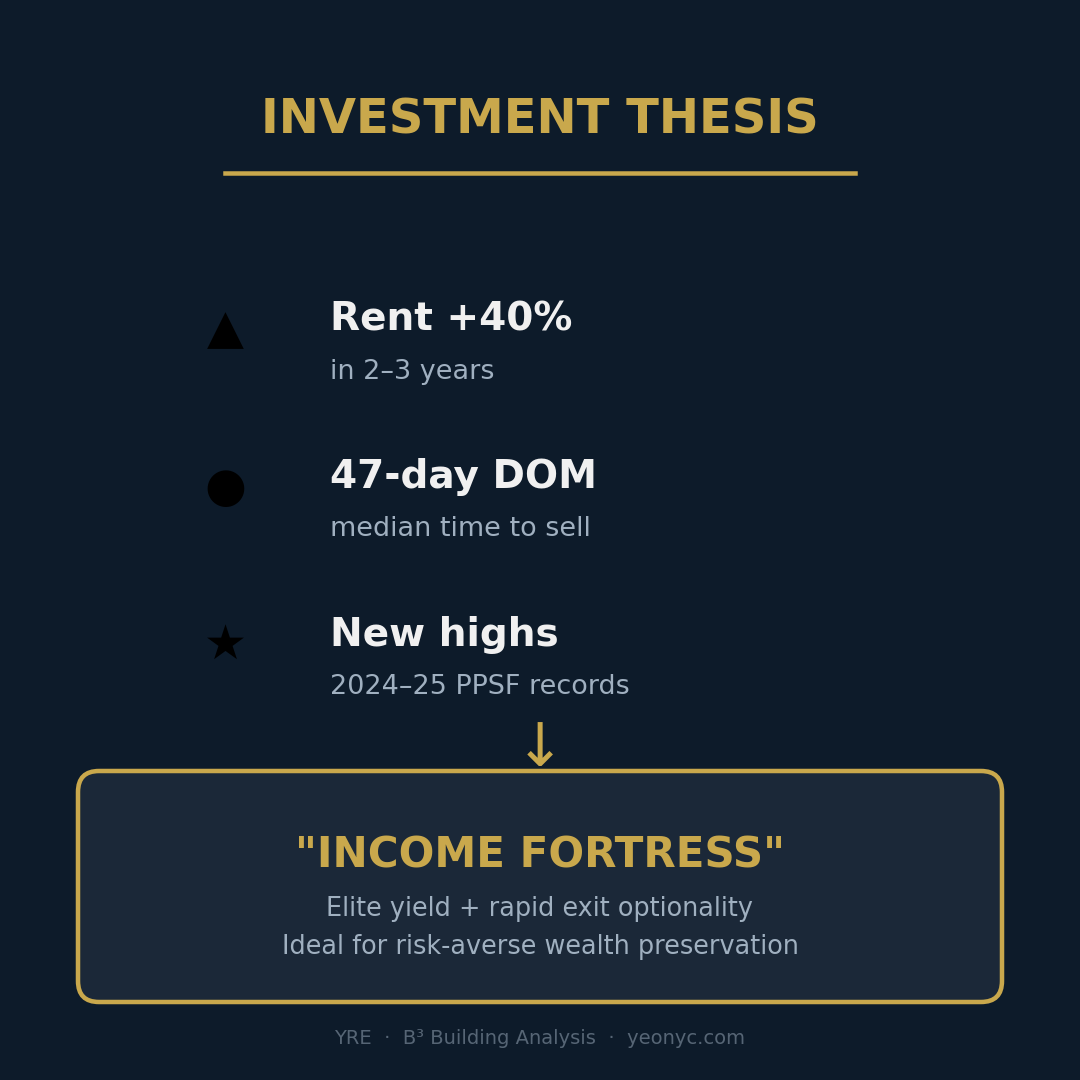
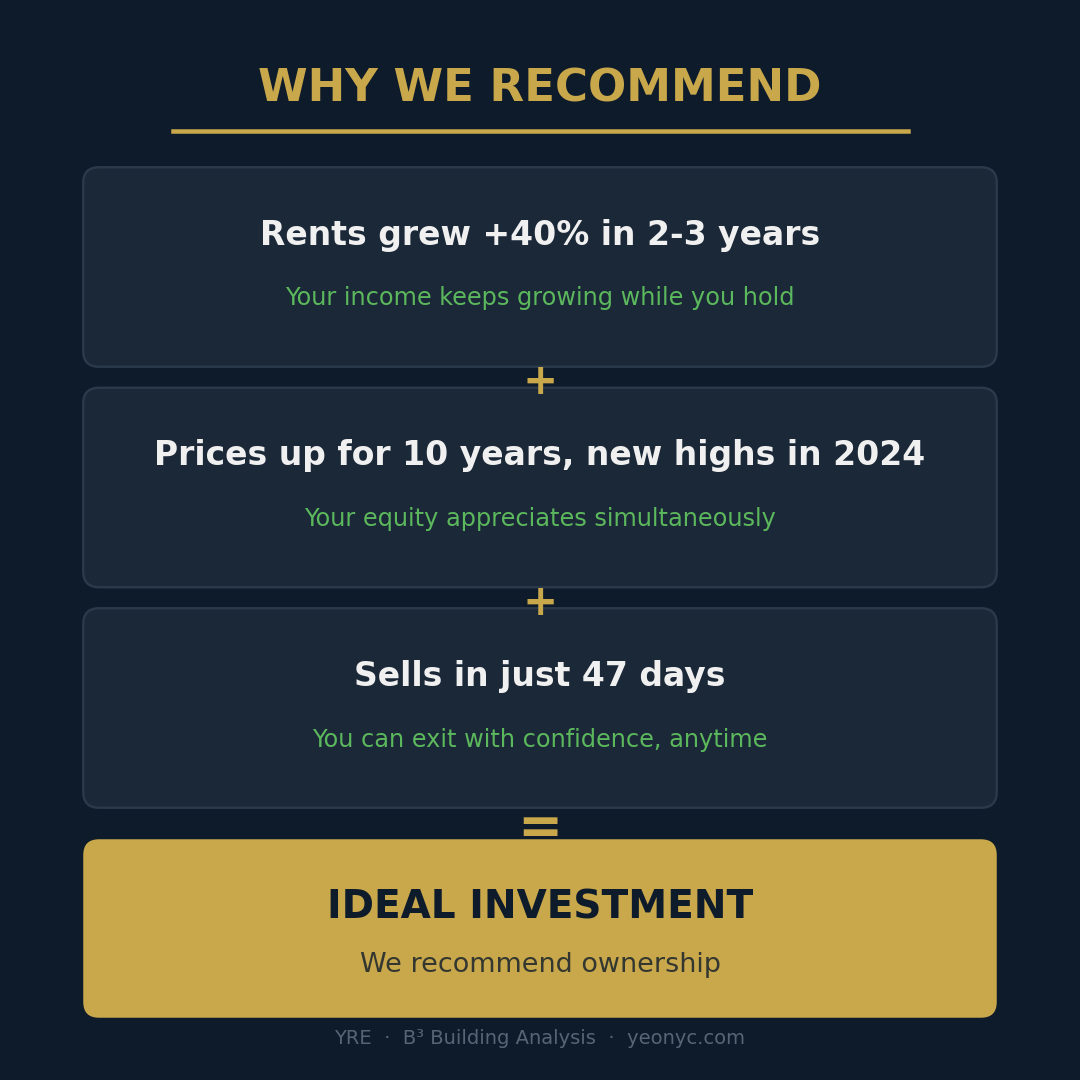
fix: rewrite thesis/synthesis as causal chains, not metric lists
- Thesis now explicitly connects: rent growth + price appreciation + fast DOM = recommend ownership
- Executive summary rebuilt with First/Second/Third → Therefore structure
- Rent capture section adds 'three-way convergence' paragraph
- Instagram slide 3 shows causal chain instead of bullet list
- SKILL.md Cross-Metric Synthesis rewritten to enforce causal arguments over '+' formulas
- Critical Reminders updated: never list metrics, always write causal chains

diff --git a/docs/index.html b/docs/index.html
@@ -37,7 +37,7 @@
 <p class="meta">B³ Building Analysis &bull; West Village, Manhattan &bull; Generated April 2026</p>
 
 <div class="thesis">
-45 Christopher Street is a <strong>Core / Defensive</strong> pre-war asset that excels at wealth preservation and income generation. Post-sponsor behavior confirms it is highly liquid (<strong>47-day median DOM</strong>) with elite rent capture capabilities (<strong>$100–$123/SF</strong>), making it a fortress investment in the West Village. While appreciation is steady rather than explosive—with the E-line compounding at <strong>4.8% CAGR</strong> while the B-line trails at <strong>1.5% CAGR</strong>—the building has successfully recovered from the 2020 correction to set new pricing records in 2024/2025. It is an ideal asset for <strong>risk-averse investors</strong> prioritizing liquidity and yield over speculative growth.
+Rents at 45 Christopher Street have grown <strong>37–40% in just 2–3 years</strong>. At the same time, sale prices have been steadily appreciating over the past decade, with the E-line compounding at <strong>4.8% CAGR</strong> and the building setting new PPSF records in 2024–2025. On top of all that, units sell in a median of just <strong>47 days</strong>. When all three of these happen simultaneously in a single building — growing rental income, appreciating asset value, and the ability to exit quickly — it creates something rare: an investment where you <strong>earn expanding yield</strong> while you hold, your <strong>asset grows in value</strong>, and you can <strong>exit with confidence at any time</strong>. This is why 45 Christopher Street is classified as <strong>Core / Defensive</strong>, and why we recommend ownership for risk-averse investors, family offices, and trusts seeking wealth preservation with income.
 </div>
 
 <hr>
@@ -110,7 +110,7 @@
 
 <p>Same-unit rent growth tells the compounding story: <strong>Unit 8D (Studio)</strong> went from $3,495 (Mar 2021) to $4,800 (Jun 2024) — a <strong>37% increase in 3.2 years</strong> (10.3% annualized). <strong>Unit 2F (1-Bed)</strong> jumped from $5,000 (Sep 2021) to $7,000 (Nov 2023) — <strong>40% in 2.2 years</strong> (16.8% annualized). Unit 3D rented in just 14 days, confirming fast absorption.</p>
 
-<p><strong>The synthesis:</strong> Rents are compounding aggressively — 37–40% growth in 2–3 years — driven by the post-COVID rental boom. Crucially, this rent growth is <em>outpacing</em> sale price appreciation (which ran 2–5% annualized over the same period), meaning the building's cap rate is <strong>improving over time</strong>. For income-focused investors, this is the strongest signal: yield is expanding, not compressing.</p>
+<p><strong>Why this matters — the three-way convergence:</strong> Consider what these numbers mean when combined with the building's other metrics. Rents grew 37–40% in 2–3 years — that's the income side. At the same time, sale prices have been steadily appreciating for a decade, with new PPSF records in 2024–2025 — that's the equity side. And units sell in a median of 47 days — that's the exit side. When an investor owns a unit in this building, three things are happening simultaneously: their rental income is growing, their asset value is increasing, and they can sell and walk away within two months if they need to. This triple convergence is what separates a merely "good" building from one that deserves the "fortress" label. It is rare. Most buildings are strong in one or two of these — very few deliver all three at the same time.</p>
 
 <hr>
 
@@ -215,13 +215,11 @@ Comparable Unit 6C sold in 2015 at $1,750,000 — the C-line's lower floors trad
 
 <h3>10. EXECUTIVE SUMMARY</h3>
 
-<p>45 Christopher Street is a <strong>Core / Defensive</strong> pre-war asset that excels at wealth preservation and income generation. Three metrics converge to tell a single story: <strong>elite rent capture</strong> ($100–$123/SF) + <strong>rapid liquidity</strong> (47-day median DOM) + <strong>steady-if-uneven appreciation</strong> (E-line 4.8% CAGR, B-line 1.5%) = a fortress investment for the West Village.</p>
+<p>The investment case for 45 Christopher Street rests on a rare convergence of three forces working simultaneously. <strong>First</strong>, rental income is compounding aggressively — same-unit rents have grown 37–40% in just 2–3 years (Unit 8D: $3,495 → $4,800; Unit 2F: $5,000 → $7,000), pushing rent capture to an elite $100–$123/SF. <strong>Second</strong>, sale prices have been appreciating steadily over the past decade, with premium lines like the E-line delivering 4.8% CAGR and the building setting new PPSF records in 2024–2025 ($3,024 for 2E, $3,182 for 1C). <strong>Third</strong>, units sell in a median of just 47 days — meaning investors can exit quickly and with confidence whenever they choose.</p>
 
-<p>The building has proven its defensive character by holding through the 2020 correction without distressed sales and then breaking to new PPSF highs in 2024–2025. Rental income is compounding aggressively (37–40% growth in 2–3 years), and the building's cap rate is <em>improving</em> — a rare combination for a Core asset.</p>
+<p>Any one of these alone would make a building attractive. But when all three happen at the same time, the result is an asset where <strong>your income grows while you hold, your equity appreciates, and you can leave whenever you want</strong>. This is the definition of a fortress investment — and it is why we classify 45 Christopher as <strong>Core / Defensive</strong> and recommend ownership for risk-averse investors, family offices, and trusts.</p>
 
-<p><strong>Ideal owner:</strong> Risk-averse investor, family office, or trust prioritizing reliable income with high-confidence exit optionality. This is not a speculative growth play. It is a vault that earns yield while you hold and lets you leave quickly when you're ready.</p>
-
-<p><strong>Line recommendation:</strong> E-line (2-Bed) for appreciation; D/F-line (Studio/1-Bed) for rent capture. Avoid B-line for appreciation-driven strategies. Avoid sub-3rd floor units unless priced at a material discount reflecting the liquidity penalty.</p>
+<p>The one caveat: not all lines are created equal. The E-line (2-Bed) is the alpha line for appreciation (4.8% CAGR), while the B-line trails at just 1.5% — barely keeping pace with inflation. Lower floors (sub-3rd) carry a material liquidity penalty (1A: 315 days DOM). Line and floor selection matters as much as building selection.</p>
 
 <hr>
 

diff --git a/examples/output/45-christopher-b3-analysis.html b/examples/output/45-christopher-b3-analysis.html
@@ -37,7 +37,7 @@
 <p class="meta">B³ Building Analysis &bull; West Village, Manhattan &bull; Generated April 2026</p>
 
 <div class="thesis">
-45 Christopher Street is a <strong>Core / Defensive</strong> pre-war asset that excels at wealth preservation and income generation. Post-sponsor behavior confirms it is highly liquid (<strong>47-day median DOM</strong>) with elite rent capture capabilities (<strong>$100–$123/SF</strong>), making it a fortress investment in the West Village. While appreciation is steady rather than explosive—with the E-line compounding at <strong>4.8% CAGR</strong> while the B-line trails at <strong>1.5% CAGR</strong>—the building has successfully recovered from the 2020 correction to set new pricing records in 2024/2025. It is an ideal asset for <strong>risk-averse investors</strong> prioritizing liquidity and yield over speculative growth.
+Rents at 45 Christopher Street have grown <strong>37–40% in just 2–3 years</strong>. At the same time, sale prices have been steadily appreciating over the past decade, with the E-line compounding at <strong>4.8% CAGR</strong> and the building setting new PPSF records in 2024–2025. On top of all that, units sell in a median of just <strong>47 days</strong>. When all three of these happen simultaneously in a single building — growing rental income, appreciating asset value, and the ability to exit quickly — it creates something rare: an investment where you <strong>earn expanding yield</strong> while you hold, your <strong>asset grows in value</strong>, and you can <strong>exit with confidence at any time</strong>. This is why 45 Christopher Street is classified as <strong>Core / Defensive</strong>, and why we recommend ownership for risk-averse investors, family offices, and trusts seeking wealth preservation with income.
 </div>
 
 <hr>
@@ -110,7 +110,7 @@
 
 <p>Same-unit rent growth tells the compounding story: <strong>Unit 8D (Studio)</strong> went from $3,495 (Mar 2021) to $4,800 (Jun 2024) — a <strong>37% increase in 3.2 years</strong> (10.3% annualized). <strong>Unit 2F (1-Bed)</strong> jumped from $5,000 (Sep 2021) to $7,000 (Nov 2023) — <strong>40% in 2.2 years</strong> (16.8% annualized). Unit 3D rented in just 14 days, confirming fast absorption.</p>
 
-<p><strong>The synthesis:</strong> Rents are compounding aggressively — 37–40% growth in 2–3 years — driven by the post-COVID rental boom. Crucially, this rent growth is <em>outpacing</em> sale price appreciation (which ran 2–5% annualized over the same period), meaning the building's cap rate is <strong>improving over time</strong>. For income-focused investors, this is the strongest signal: yield is expanding, not compressing.</p>
+<p><strong>Why this matters — the three-way convergence:</strong> Consider what these numbers mean when combined with the building's other metrics. Rents grew 37–40% in 2–3 years — that's the income side. At the same time, sale prices have been steadily appreciating for a decade, with new PPSF records in 2024–2025 — that's the equity side. And units sell in a median of 47 days — that's the exit side. When an investor owns a unit in this building, three things are happening simultaneously: their rental income is growing, their asset value is increasing, and they can sell and walk away within two months if they need to. This triple convergence is what separates a merely "good" building from one that deserves the "fortress" label. It is rare. Most buildings are strong in one or two of these — very few deliver all three at the same time.</p>
 
 <hr>
 
@@ -215,13 +215,11 @@ Comparable Unit 6C sold in 2015 at $1,750,000 — the C-line's lower floors trad
 
 <h3>10. EXECUTIVE SUMMARY</h3>
 
-<p>45 Christopher Street is a <strong>Core / Defensive</strong> pre-war asset that excels at wealth preservation and income generation. Three metrics converge to tell a single story: <strong>elite rent capture</strong> ($100–$123/SF) + <strong>rapid liquidity</strong> (47-day median DOM) + <strong>steady-if-uneven appreciation</strong> (E-line 4.8% CAGR, B-line 1.5%) = a fortress investment for the West Village.</p>
+<p>The investment case for 45 Christopher Street rests on a rare convergence of three forces working simultaneously. <strong>First</strong>, rental income is compounding aggressively — same-unit rents have grown 37–40% in just 2–3 years (Unit 8D: $3,495 → $4,800; Unit 2F: $5,000 → $7,000), pushing rent capture to an elite $100–$123/SF. <strong>Second</strong>, sale prices have been appreciating steadily over the past decade, with premium lines like the E-line delivering 4.8% CAGR and the building setting new PPSF records in 2024–2025 ($3,024 for 2E, $3,182 for 1C). <strong>Third</strong>, units sell in a median of just 47 days — meaning investors can exit quickly and with confidence whenever they choose.</p>
 
-<p>The building has proven its defensive character by holding through the 2020 correction without distressed sales and then breaking to new PPSF highs in 2024–2025. Rental income is compounding aggressively (37–40% growth in 2–3 years), and the building's cap rate is <em>improving</em> — a rare combination for a Core asset.</p>
+<p>Any one of these alone would make a building attractive. But when all three happen at the same time, the result is an asset where <strong>your income grows while you hold, your equity appreciates, and you can leave whenever you want</strong>. This is the definition of a fortress investment — and it is why we classify 45 Christopher as <strong>Core / Defensive</strong> and recommend ownership for risk-averse investors, family offices, and trusts.</p>
 
-<p><strong>Ideal owner:</strong> Risk-averse investor, family office, or trust prioritizing reliable income with high-confidence exit optionality. This is not a speculative growth play. It is a vault that earns yield while you hold and lets you leave quickly when you're ready.</p>
-
-<p><strong>Line recommendation:</strong> E-line (2-Bed) for appreciation; D/F-line (Studio/1-Bed) for rent capture. Avoid B-line for appreciation-driven strategies. Avoid sub-3rd floor units unless priced at a material discount reflecting the liquidity penalty.</p>
+<p>The one caveat: not all lines are created equal. The E-line (2-Bed) is the alpha line for appreciation (4.8% CAGR), while the B-line trails at just 1.5% — barely keeping pace with inflation. Lower floors (sub-3rd) carry a material liquidity penalty (1A: 315 days DOM). Line and floor selection matters as much as building selection.</p>
 
 <hr>
 

diff --git a/b3-building-analyzer/SKILL.md b/b3-building-analyzer/SKILL.md
@@ -52,13 +52,21 @@ For each line, calculate:
 - **Rental absorption speed**: DOM for rental listings
 
 ### Cross-Metric Synthesis (THIS IS THE KEY PART)
-After computing individual metrics, you MUST identify relationships:
 
-1. **Liquidity + Rent Capture convergence**: Do lines that rent fast also sell fast? If yes → "fortress" asset. If divergent → investigate why.
-2. **Appreciation vs. Rent Growth alignment**: If rents grew 40% but prices only grew 10%, there's a cap rate compression story. If both grew together → "compounding" asset.
-3. **Line divergence**: Do some lines consistently outperform? This reveals the building's "alpha lines" vs. "commodity lines."
-4. **Floor premium persistence**: Do higher floors maintain their premium in downturns, or does the spread compress?
-5. **Cycle behavior**: How did the building perform through identifiable market regimes (2013-15 boom, 2016-19 plateau, 2020 COVID, 2021-22 recovery, 2023+ normalization)?
+This is the section that makes this skill different from generic AI analysis. Generic AI will produce: "Rents are high. Prices went up. DOM is low." — three separate observations. That is useless.
+
+What you MUST produce instead is a **causal chain**: "BECAUSE rents grew X% AND prices appreciated AND units sell in Y days — all three happening at the same time — THEREFORE this building is [classification] and we recommend [action] for [investor type]."
+
+The key word is **simultaneously**. A building where rents grew 40% but takes 200 days to sell is a completely different investment than one where rents grew 40% AND sells in 47 days. The interplay between metrics is the thesis — not the metrics themselves.
+
+After computing individual metrics, build the causal argument:
+
+1. **The Income Story** (Rent Capture): Are rents growing? By how much, over what period? What does this mean for the owner's cash flow?
+2. **The Equity Story** (Appreciation): Is the asset growing in value? Which lines? Over what timeframe?
+3. **The Exit Story** (Liquidity): Can the owner leave when they want to? How quickly? At what discount from ask?
+4. **The Convergence** (THIS IS THE THESIS): Are all three happening at the same time? If yes — the owner earns growing income WHILE their asset appreciates AND they can exit anytime. State this explicitly. Do NOT just list the three metrics with "+" signs between them. Write it as a connected argument: "Because A is true, and at the same time B is true, and on top of that C is true, the result is D — and therefore we recommend E."
+
+If the metrics diverge (e.g., high rent but low liquidity), that divergence IS the thesis — explain what kind of investor it suits and why.
 
 ## Step 3: Score Using B³ System
 
@@ -151,7 +159,8 @@ The Executive Summary should echo the thesis from Step 4, not introduce new info
 ## Critical Reminders
 
 - **Never describe data without interpreting it.** "PPSF rose from $1,700 to $2,600" is description. "The building captured the 2013-15 boom fully, with PPSF rising 53% — and critically, it held those gains through the subsequent plateau" is analysis.
-- **Always connect metrics to each other.** Isolated numbers are useless. The value is in the conjunction: "rents grew 40% AND prices compounded AND liquidity stayed under 50 days."
+- **NEVER list metrics with "+" signs. ALWAYS write causal chains.** Wrong: "Elite rent capture ($100/SF) + rapid liquidity (47-day DOM) + steady appreciation = fortress." Right: "Rents grew 40% in 3 years — that's growing income. At the same time, prices have been appreciating for a decade — that's growing equity. On top of that, units sell in 47 days — that's exit optionality. When all three happen simultaneously, the owner earns more each year, gets richer each year, and can leave anytime. This is why we recommend ownership." The difference: the first is a formula, the second is an argument. Always write the argument.
 - **Name the investor.** Every building has an ideal owner profile. State it explicitly.
+- **Make a recommendation.** Don't just classify — tell the reader whether to buy, hold, or avoid, and for which investor type. The thesis must end with an action, not just a label.
 - **Be honest about weaknesses.** A credible analysis acknowledges laggards and risks. Cherry-picking winners destroys trust.
 - **Use specific numbers.** Never say "strong appreciation" — say "5% CAGR on the E-line, outperforming NYXRCSA by 2.1pp."
